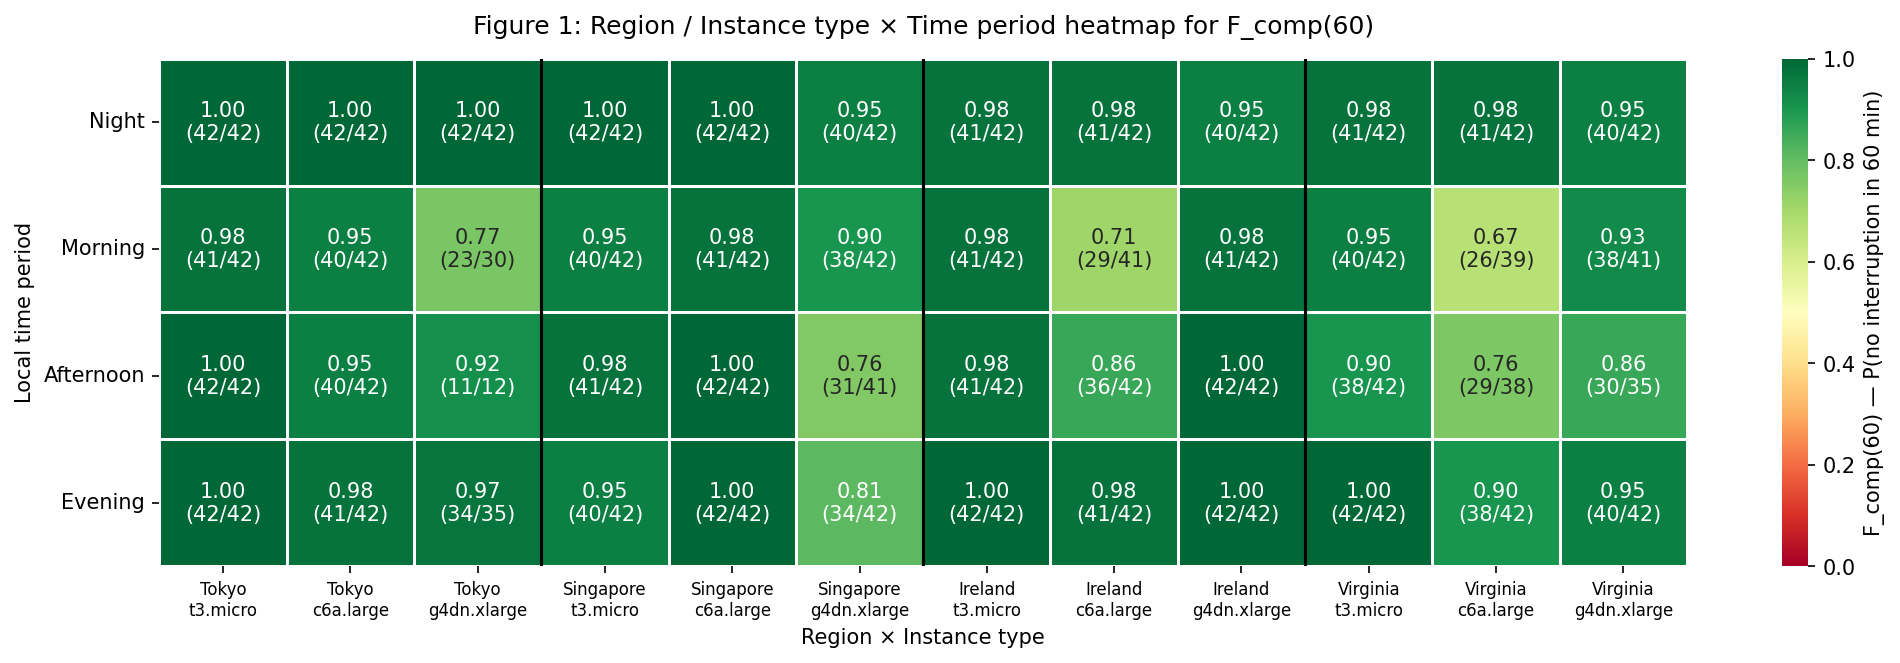
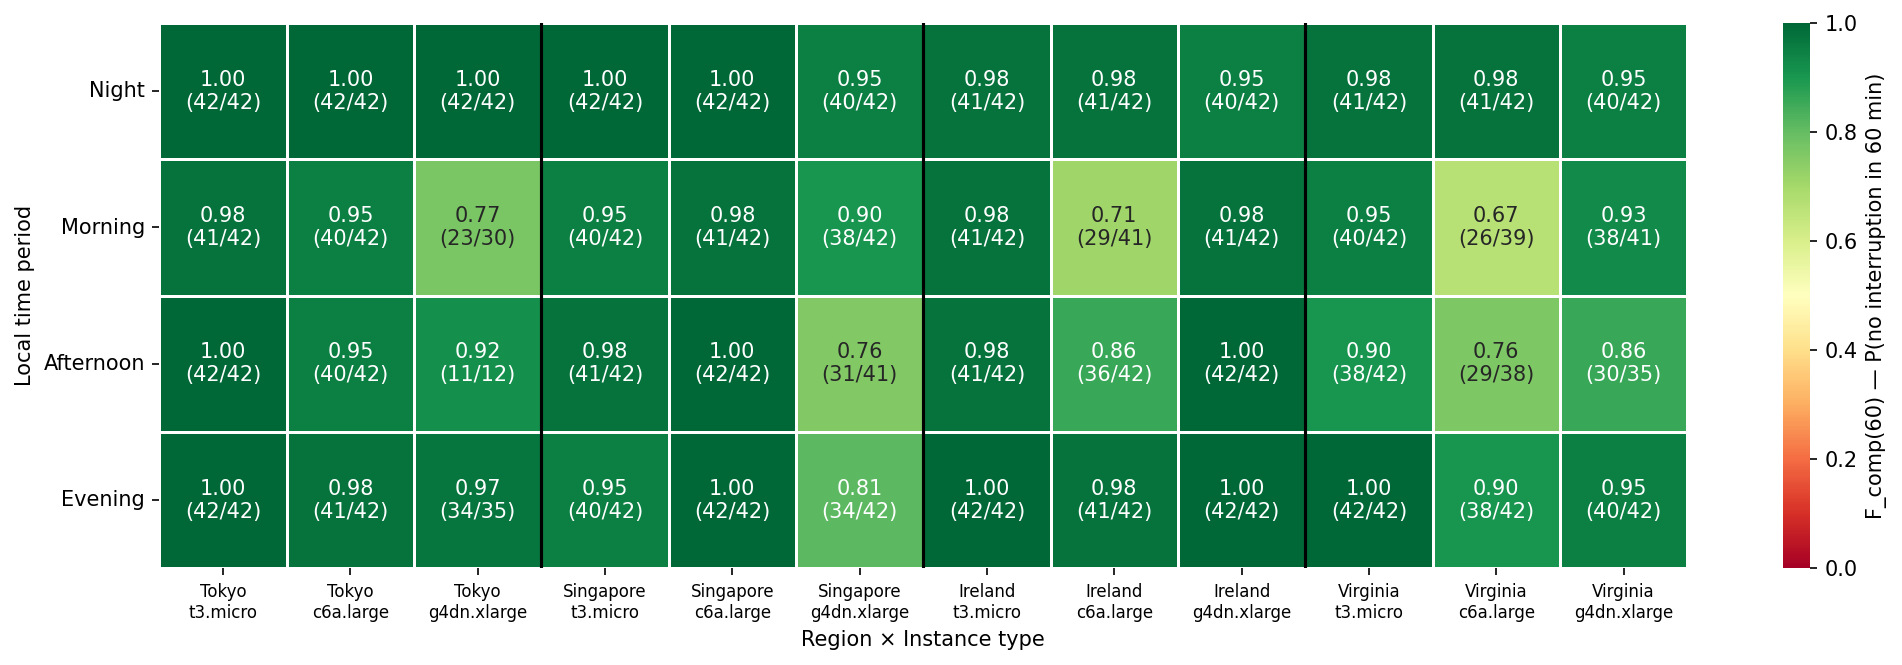
feat:細いところの修正

diff --git a/main.tex b/main.tex
@@ -11,6 +11,7 @@
 \usepackage{makecell}
 \usepackage[table]{xcolor}
 \usepackage{amsmath}
+\usepackage{url}
 %
 % If you use the hyperref package, please uncomment the following two lines
 % to display URLs in blue roman font according to Springer's eBook style:
@@ -29,7 +30,7 @@
 \authorrunning{N. Nasu et al.}
 %
 \institute{Graduate School of Science and Engineering, \\Doshisha University, Kyotanabe, Kyoto, 619-0394, Japan \and
-\email{ctwn0118@mail4.doshisha.ac.jp} \and
+\email{ctwn0144@mail4.doshisha.ac.jp} \and
 \email{ctwp0167@mail4.doshisha.ac.jp} \and
 \email{akohiga@mail.doshisha.ac.jp} \and
 \email{tkoita@mail.doshisha.ac.jp}
@@ -38,13 +39,13 @@
 \maketitle
 
 \begin{abstract}
-Spot instances offer significant cost savings but may be interrupted before a short-running workload—such as a CI/CD job or batch-processing task—completes. Existing indicators such as Spot Placement Score (SPS) assess launch-time availability but do not directly capture whether a successfully launched instance will remain available until a workload-specific deadline.
+Spot instances offer significant cost savings. However, they may be interrupted before a short-running workload—such as a CI/CD job or batch-processing task—completes. Existing indicators such as Spot Placement Score (SPS) assess launch-time availability. However, they do not directly capture whether a successfully launched instance will remain available until a workload-specific deadline.
 
-We present a time-of-day-aware empirical measurement framework that periodically launches spot instances across four AWS regions and three instance types, and evaluates deadline-conditioned completion feasibility $F_{\mathrm{comp}}(d)$—the fraction of successfully launched instances that are not interrupted before deadline $d \in \{5, 10, 30, 60\}$ minutes. Over a one-week observation period, 1,950 out of 2,016 launch requests succeeded ($R_{\mathrm{launch}} = 96.7\%$), and 117 launched instances ($6.0\%$) were interrupted.
+We present a time-of-day-aware empirical measurement framework that periodically launches spot instances across four AWS regions and three instance types, and evaluates deadline-conditioned completion feasibility $F_{\mathrm{comp}}(d)$—the fraction of successfully launched instances that are not interrupted before workload deadline $d$—for deadlines of 5, 10, 30, and 60 minutes. Over a one-week observation period, launch success rates were high overall, while a small fraction of launched instances were interrupted before the end of the observation window.
 
-$F_{\mathrm{comp}}(d)$ varied substantially by local time period for compute-oriented and GPU-based instance types. The largest difference was observed for c6a.large in N.~Virginia, where $F_{\mathrm{comp}}(60)$ reached $0.98$ during the Night period (00:00–05:59) but dropped to $0.69$ during the Morning period—a gap of $0.29$. Similar patterns appeared in Ireland and Tokyo. By contrast, t3.micro maintained $F_{\mathrm{comp}}(60) \geq 0.95$ across all conditions. These results provide preliminary evidence that local time of day can serve as an operationally meaningful, directly observable scheduling factor for short-running workloads on spot instances.
+$F_{\mathrm{comp}}(d)$ varied substantially by local time period for compute-oriented and GPU-based instance types. The largest difference was observed for c6a.large in N.~Virginia, where the Night period achieved markedly higher completion feasibility than the Morning period. Similar patterns appeared in Ireland and Tokyo. By contrast, t3.micro remained stable across all conditions. These results provide preliminary evidence that local time of day can serve as an operationally meaningful, directly observable scheduling factor for short-running workloads on spot instances.
 
-\keywords{Spot Instance \and Cloud Computing \and Interruption Event \and Time of Day \and Short-Running Workloads \and CI/CD}
+\keywords{Spot Instance, Cloud Computing, Interruption Event, Time of Day, Short-Running Workloads, CI/CD}
 \end{abstract}
 
 \section{Introduction}
@@ -54,15 +55,12 @@ $F_{\mathrm{comp}}(d)$ varied substantially by local time period for compute-ori
 In recent years, cloud computing has been widely adopted by enterprises, research institutions, and individual developers. As the scale of cloud usage increases and the demand for high-performance computing resources grows, cloud computing costs have become an important issue for many users.
 
 
-One approach to reducing cloud computing costs is the use of spot instances. Spot instances are a pricing model in which cloud providers offer spare computing resources at lower prices than on-demand instances. Compared with on-demand instances, spot instances can be used at a discount of several tens of percent to up to approximately 90\% \cite{Lin2022Survey}. Therefore, spot instances are used not only for large-scale computational workloads such as machine learning and batch processing, but also for workloads that temporarily require computing resources, such as automated build and test processes in CI/CD \cite{Ramesh2025}.
+One approach to reducing cloud computing costs is the use of spot instances. Spot instances are a pricing model in which cloud providers offer spare computing resources at lower prices than on-demand instances \cite{AWSSpot}. Compared with on-demand instances, spot instances can be used at a discount of several tens of percent to up to approximately 90\% \cite{Lin2022Survey}. Therefore, spot instances are used not only for large-scale computational workloads such as machine learning and batch processing, but also for workloads that temporarily require computing resources, such as automated build and test processes in CI/CD \cite{Ramesh2025}.
 
 However, because spot instances rely on spare capacity, they may be interrupted when cloud demand increases or available capacity decreases. Such an interruption is called an interruption event. If an interruption event occurs during the execution of a workload, the running process may stop before completion. In particular, when batch processing, machine learning, or CI/CD build and test processes are interrupted, the workload may need to be re-executed. As a result, both execution time and cloud usage cost may increase.
 
 
-Thus, although spot instances are effective for reducing cloud computing costs, their reliability is affected by interruption events. Existing approaches include bidding strategies that consider price fluctuations and the selection of regions or instance types based on provider-specific availability indicators such as Spot Placement Score (SPS) \cite{Garg2025,Katayama2022}. SPS is useful for estimating whether a spot request is likely to be fulfilled. However, for users who run short-running workloads, such as CI/CD pipelines, automated tests, and batch-processing jobs, the more practical question is not only whether a spot instance can be launched, but also whether it can remain available until the workload finishes.
-
-
-Existing studies have shown that spot instance availability and provider-specific indicators such as SPS may vary depending on time of day and day of week. However, for users of short-running workloads, the key operational question is not only whether such temporal variation exists, but also whether it can be used to decide when a workload is likely to complete before interruption. In this study, we therefore treat time of day as an operational factor for short-running workload execution, and evaluate spot instance reliability in terms of deadline-conditioned completion feasibility.
+Thus, although spot instances are effective for reducing cloud computing costs, their reliability is affected by interruption events. Existing approaches include bidding strategies and provider-specific indicators such as Spot Placement Score (SPS) \cite{Garg2025,Katayama2022}, which estimates whether a spot request is likely to be fulfilled. However, for users of short-running workloads such as CI/CD pipelines and batch jobs, the key question is not only whether an instance can be launched, but also whether it will remain available until the workload completes. Although prior studies have shown that spot availability may vary with time of day \cite{Kim2024SpotInterruption}, whether this variation can guide completion-oriented scheduling remains insufficiently addressed. In this study, we therefore treat time of day as an operational scheduling factor and evaluate spot instance reliability in terms of deadline-conditioned completion feasibility.
 
 % 近年，クラウドコンピューティングは，企業，研究機関，個人開発者などによって広く利用されている．クラウド利用の規模が拡大し，高性能な計算資源への需要が増加するにつれて，クラウドコンピューティングの利用コストは多くの利用者にとって重要な課題となっている．
 
@@ -103,11 +101,11 @@ The main contributions of this paper are as follows:
 
 \subsection{Spot Instance Availability and Temporal Variation}
 
-Prior work has addressed spot instance reliability through approaches such as checkpointing, migration, and scheduling~\cite{Lin2022Survey}. SPS is a provider-specific AWS indicator that estimates the likelihood a spot request can be fulfilled under given conditions. Katayama et al.~\cite{Katayama2022} showed that SPS can guide migration destination selection, improving launch-time availability. Kim et al.~\cite{Kim2024SpotInterruption} showed that SPS varies periodically with time of day and day of week and correlates with survival time, treating temporal variation primarily as a characteristic of spot markets. However, neither SPS nor survival time directly indicates whether a launched instance will remain available long enough for a given workload to complete, and they do not provide a workload-deadline-oriented view of time-of-day effects.
+Prior work has addressed spot instance reliability through approaches such as checkpointing, migration, and scheduling~\cite{Lin2022Survey}. SPS is a provider-specific AWS indicator that estimates the likelihood a spot request can be fulfilled under given conditions~\cite{AWSSPS}. Katayama et al.~\cite{Katayama2022} showed that SPS can guide migration destination selection, improving launch-time availability. Kim et al.~\cite{Kim2024SpotInterruption} showed that SPS varies periodically with time of day and day of week and correlates with survival time, treating temporal variation primarily as a characteristic of spot markets. However, neither SPS nor survival time directly indicates whether a launched instance will remain available long enough for a given workload to complete, and they do not provide a workload-deadline-oriented view of time-of-day effects.
 
 \subsection{Spot Instance Datasets and Workload-Oriented Use}
 
-Lee et al.~\cite{Lee2022SpotLake} proposed SpotLake, showing that GPU and large instance types tend to have lower spot availability and that availability differs across regions. Garg et al.~\cite{Garg2025} and Ramesh and Lennon~\cite{Ramesh2025} considered spot instances for cost reduction and DevOps workflows, but the relationship between time of day and completion feasibility of short-running workloads remains insufficiently studied. In contrast, this paper focuses on deadline-conditioned completion feasibility, separating launch-time availability from runtime continuity to analyze spot instance usage from the viewpoint of short-workload execution timing.
+Lee et al.~\cite{Lee2022SpotLake} proposed SpotLake, showing that GPU and large instance types tend to have lower spot availability and that availability differs across regions. Garg et al.~\cite{Garg2025} and Ramesh and Lennon~\cite{Ramesh2025} considered spot instances for cost reduction and DevOps workflows. However, the relationship between time of day and completion feasibility of short-running workloads remains insufficiently studied. In contrast, this paper focuses on deadline-conditioned completion feasibility, separating launch-time availability from runtime continuity to analyze spot instance usage from the viewpoint of short-workload execution timing.
 % \section{Related Work}
 
 % \subsection{Spot Instance Availability and Provider-Specific Indicators}
@@ -133,7 +131,7 @@ Lee et al.~\cite{Lee2022SpotLake} proposed SpotLake, showing that GPU and large 
 
 \subsection{Problem Definition}
 
-Existing indicators such as SPS characterize whether a spot request can be fulfilled, but not whether a launched instance will remain available long enough for a workload to complete. For short-running workloads such as CI/CD pipelines and batch jobs, these are distinct concerns: even a successfully launched instance may be interrupted before the workload finishes, forcing a full retry and increasing both execution time and cost. Users of such workloads therefore need a deadline-oriented view of spot instance reliability, not just request fulfillment likelihood.
+Existing indicators such as SPS characterize whether a spot request can be fulfilled. They do not indicate whether a launched instance will remain available long enough for a workload to complete. For short-running workloads such as CI/CD pipelines and batch jobs, these are distinct concerns: even a successfully launched instance may be interrupted before the workload finishes, forcing a full retry and increasing both execution time and cost. Users of such workloads therefore need a deadline-oriented view of spot instance reliability, not just request fulfillment likelihood.
 
 Furthermore, many short-running workloads can be scheduled flexibly—for example, during nighttime or low-demand periods. Time of day is therefore a potentially actionable factor for reducing interruption risk. However, existing indicators do not expose the time-of-day effect in deadline-oriented terms. SPS and $F_{\mathrm{comp}}(d)$ thus capture complementary aspects of spot instance reliability: SPS addresses launch-time placement likelihood, whereas $F_{\mathrm{comp}}(d)$ addresses post-launch runtime continuity for workload-specific deadlines.
 
@@ -229,7 +227,7 @@ By analyzing these metrics by local time of day, region, and instance type, this
 
 In this experiment, we implement the proposed measurement framework on AWS using a scheduler-driven Lambda function that periodically launches spot instances and records launch results, runtime status, and interruption events in a database.
 
-Table \ref{table:instance_types} shows the instance types used in this experiment \cite{Pham2018}. These instance types were selected as representative examples of different workload categories: compute-oriented workloads, GPU-based workloads, and lightweight applications. The purpose of this selection is not to cover all EC2 instance families, but to compare interruption tendencies among instance types with different resource characteristics.
+We selected three instance types—c6a.large (compute-oriented), g4dn.xlarge (GPU-based), and t3.micro (lightweight)—as representative examples of different workload categories \cite{Pham2018}, to compare interruption tendencies among instance types with different resource characteristics.
 
 The experiment targets four AWS regions: N. Virginia (us-east-1), Tokyo (ap-northeast-1), Ireland (eu-west-1), and Singapore (ap-southeast-1). In each region, one spot instance is launched every hour for each instance type. Each instance is observed for up to one hour and is terminated by the system if no interruption event occurs during the observation window.
 
@@ -240,22 +238,6 @@ Based on the collected information, we calculate the launch success rate, the in
 The experiment was conducted from May 19, 2026, to May 25, 2026. Because the observation period was limited to one week, the obtained results may be affected by short-term fluctuations in spot capacity and may not fully represent long-term, weekly, or seasonal trends. In addition, since only one spot instance was launched every hour for each combination of region and instance type, the number of samples for each time period is limited. Therefore, the results of this experiment should be interpreted as preliminary empirical observations under the given experimental conditions, rather than as universally generalizable interruption trends.
 
 To distinguish spot interruptions from normal system termination, an instance that becomes unavailable before its scheduled one-hour observation end without being terminated by the measurement system is treated as an interruption candidate. Collected records are grouped by local time of day, region, and instance type to calculate the metrics defined in Section~3.
-
-\begin{table}[t]
-\caption{Instance types used in this study}
-\label{table:instance_types}
-\centering
-\renewcommand{\arraystretch}{1.5}
-\begin{tabular}{|c|c|}
-\hline
-Instance type & Main use case \\
-\hline
-c6a.large & Batch processing and computational workloads \\
-g4dn.xlarge & Machine learning inference and image processing \\
-t3.micro & Lightweight applications \\
-\hline
-\end{tabular}
-\end{table}
 
 \section{Results}
 
@@ -318,7 +300,7 @@ Across all four panels, the Night period consistently achieved the highest or ne
 
 \subsection{Time-of-Day as an Operational Scheduling Factor}
 
-The results show that $F_{\mathrm{comp}}(d)$ varies substantially by local time period for compute-oriented and GPU-based instance types, while remaining largely stable for t3.micro. The most pronounced differences were observed in N.~Virginia for c6a.large, where the Night period achieved $F_{\mathrm{comp}}(60) = 0.98$ (95\% CI: 0.88--1.00) compared to $0.69$ (95\% CI: 0.54--0.81) in the Morning—a gap of approximately 0.29 with non-overlapping confidence intervals. A similar contrast appeared in Ireland ($1.00$ [0.92--1.00] vs.\ $0.73$ [0.58--0.84]) and Tokyo g4dn.xlarge ($1.00$ [0.92--1.00] vs.\ $0.77$ [0.59--0.88]). These findings suggest that, for workloads with flexible execution timing, selecting the Night period (00:00–05:59 local time) can substantially reduce the risk of interruption before the workload deadline.
+The results show that $F_{\mathrm{comp}}(d)$ varies substantially by local time period for compute-oriented and GPU-based instance types, while remaining largely stable for t3.micro. The largest gap (approximately 0.29, with non-overlapping confidence intervals) was observed in N.~Virginia c6a.large between the Night and Morning periods, with qualitatively similar contrasts in Ireland c6a.large and Tokyo g4dn.xlarge. These findings suggest that, for workloads with flexible execution timing, selecting the Night period (00:00–05:59 local time) can substantially reduce interruption risk before the workload deadline.
 
 The observed pattern is consistent with the hypothesis that local cloud demand follows a diurnal cycle. During local nighttime hours, business-driven demand for compute and GPU capacity is likely lower, leaving more spare capacity available for spot instances. Conversely, the Morning or Afternoon periods—corresponding to the start of local business hours—appear to be associated with increased spot market competition and higher interruption rates. The regional difference in which period is riskiest further supports this interpretation: N.~Virginia and Ireland show Morning as the riskiest period, which aligns with the start of the North American and European business day; Singapore shows Afternoon as riskiest, consistent with peak activity during Asian afternoon hours.
 
@@ -330,7 +312,7 @@ The observed robustness of t3.micro ($F_{\mathrm{comp}}(60) \geq 0.95$ in all co
 
 These preliminary observations have direct implications for practitioners who use spot instances for short-running workloads with flexible scheduling. For c6a.large or g4dn.xlarge instances in regions such as N.~Virginia, Ireland, or Tokyo, scheduling CI/CD jobs or batch-processing tasks during the Night period can increase $F_{\mathrm{comp}}(60)$ by up to 0.29 compared to the Morning period, without requiring any changes to the workload itself or any provider-specific API calls. Since $F_{\mathrm{comp}}(d)$ is derived solely from directly observed launch and interruption records, this approach provides a transparent and interpretable scheduling signal derived from directly observed interruption behavior. While this study does not empirically compare the proposed metric with SPS, $F_{\mathrm{comp}}(d)$ captures a different aspect of spot reliability: post-launch runtime continuity for workload-specific deadlines. These results should not be interpreted as a replacement for SPS: the two metrics address different stages of spot instance reliability, and users may benefit from consulting both when selecting launch conditions and execution timing.
 
-It should be noted that the riskiest time period differs by region: Morning in N.~Virginia, Ireland, and Tokyo, but Afternoon in Singapore. Users should therefore derive $F_{\mathrm{comp}}(d)$ from their own observed data in the target region rather than applying a single universal rule.
+It should be noted that the riskiest time period differs by region: Morning in N.~Virginia, Ireland, and Tokyo, whereas Afternoon in Singapore. Users should therefore derive $F_{\mathrm{comp}}(d)$ from their own observed data in the target region rather than applying a single universal rule.
 
 When a workload must run at a fixed wall-clock time, region selection can substitute for time-shifting: routing the job to a region where it is currently nighttime exploits the lower interruption rates of the Night period without delaying execution.
 
@@ -373,7 +355,13 @@ The main idea of this study is to treat time of day as an operational variable f
 %
 % ---- Bibliography ----
 %
-\begin{thebibliography}{8}
+\begin{thebibliography}{9}
+
+\bibitem{AWSSpot}
+Amazon Web Services:
+Amazon EC2 Spot Instances.
+\url{https://aws.amazon.com/jp/ec2/spot/}
+(Accessed: May 2026)
 
 \bibitem{Lin2022Survey}
 Lin, L., Pan, L., Liu, S.:
@@ -407,6 +395,13 @@ Making Cloud Spot Instance Interruption Events Visible.
 In: Proceedings of the ACM Web Conference 2024 (WWW '24),
 pp. 2998--3009. ACM, New York (2024).
 \doi{10.1145/3589334.3645548}
+
+\bibitem{AWSSPS}
+Amazon Web Services:
+Spot Placement Score.
+Amazon EC2 User Guide.
+\url{https://docs.aws.amazon.com/AWSEC2/latest/UserGuide/spot-placement-score.html}
+(Accessed: May 2026)
 
 \bibitem{Lee2022SpotLake}
 Lee, S., Hwang, J., Lee, K.:

diff --git a/figure.py b/figure.py
@@ -110,11 +110,6 @@ sns.heatmap(
     cbar_kws={"label": f"F_comp({T_MINUTES}) — P(no interruption in {T_MINUTES} min)"},
 )
 
-ax.set_title(
-    f"Figure 1: Region / Instance type × Time period heatmap for F_comp({T_MINUTES})",
-    fontsize=12,
-    pad=12,
-)
 ax.set_xlabel("Region × Instance type", fontsize=10)
 ax.set_ylabel("Local time period", fontsize=10)
 ax.set_yticklabels(ax.get_yticklabels(), rotation=0)

diff --git a/figure2.py b/figure2.py
@@ -159,12 +159,6 @@ fig.legend(
     handlelength=2.5,
 )
 
-fig.suptitle(
-    r"Figure 2: $F_\mathrm{comp}(d)$ for top-4 combinations with largest time-period variation",
-    fontsize=12,
-    fontweight="bold",
-    y=1.01,
-)
 
 plt.savefig("images/figure2_fcomp_multiregion.png", dpi=180, bbox_inches="tight")
 plt.show()
